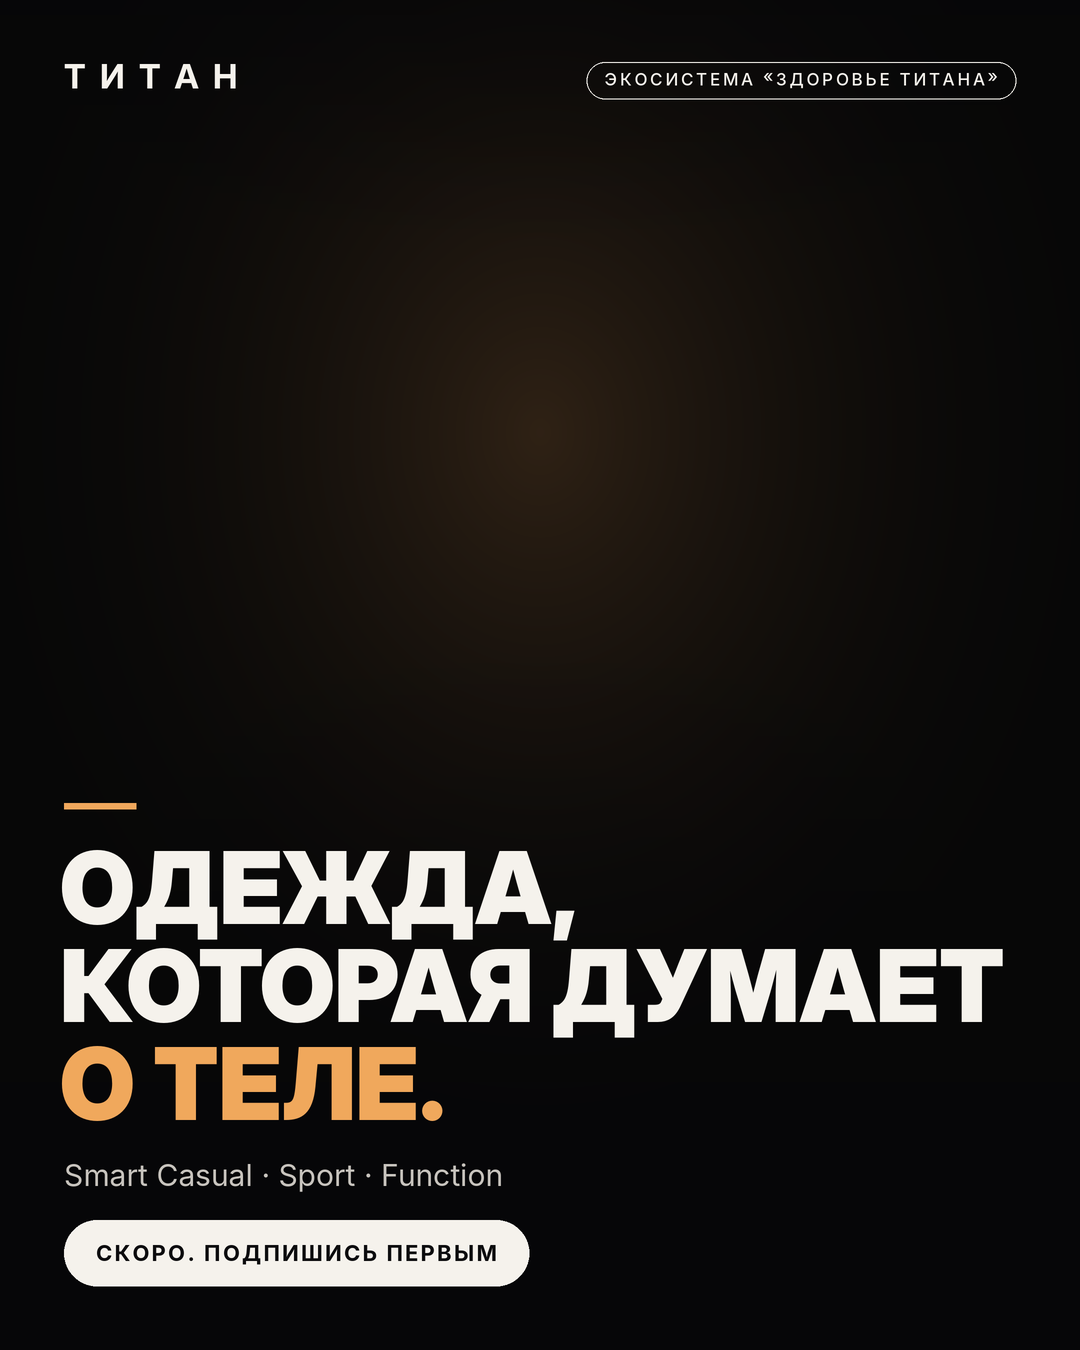
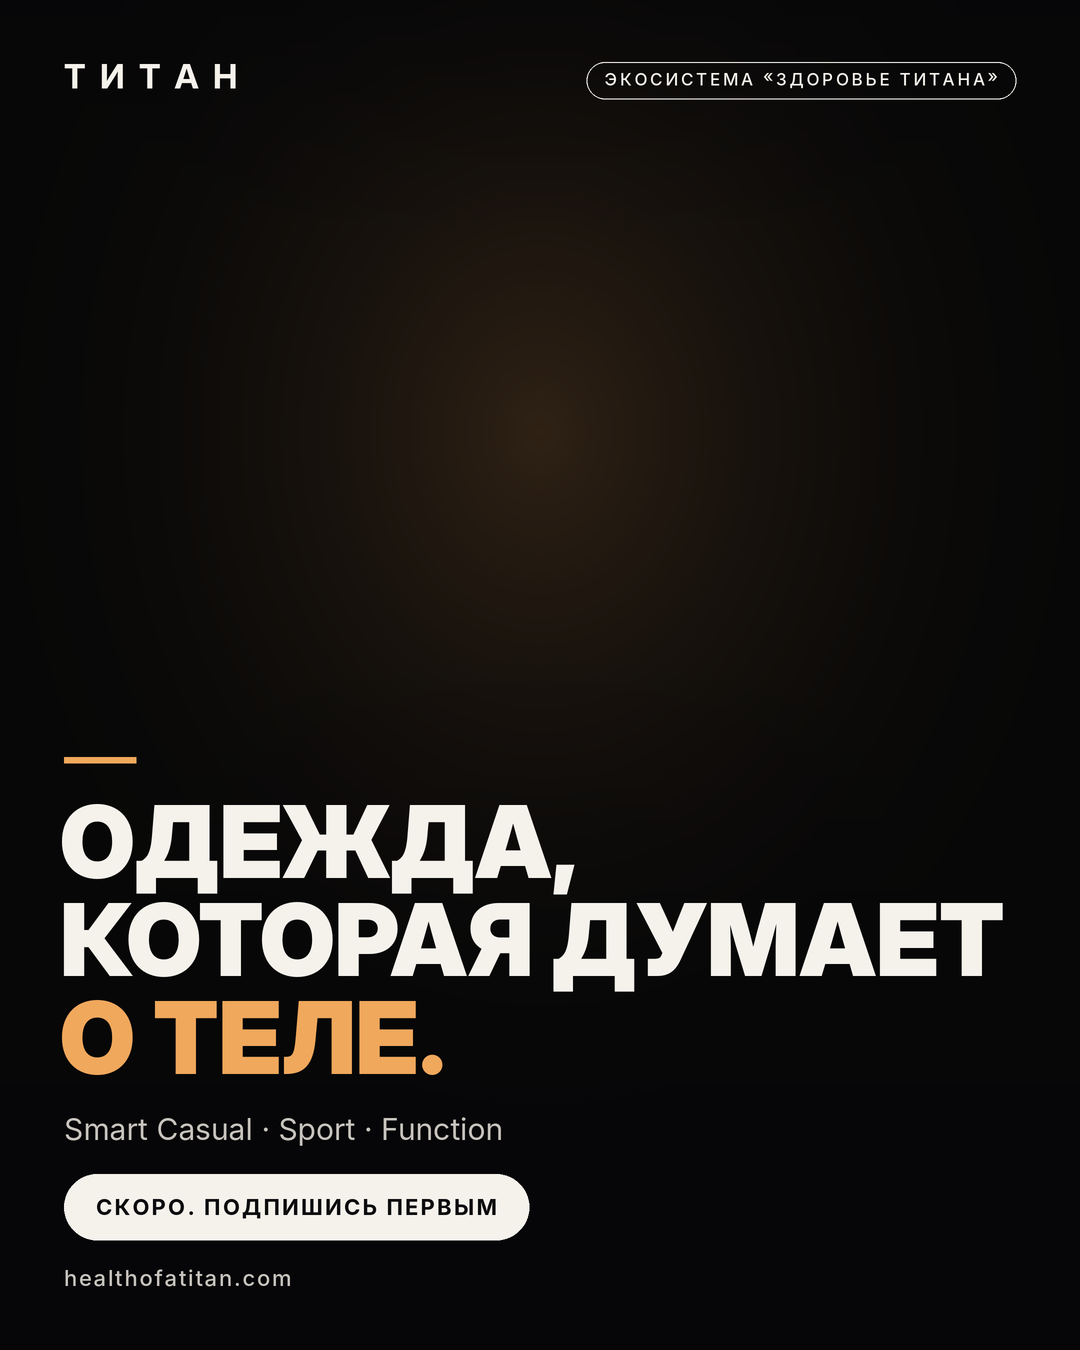
08-gtm/social: адрес сайта healthofatitan.com на финальном слайде, в сторис и видео
Claude-Session: https://claude.ai/code/session_014S4WhzKk5XQeDj9U6gLgi7

Changed region(s): [[0.0306, 0.56, 0.9472, 0.9644]]

diff --git a/08-gtm/social/campaign-teaser/story_video.py b/08-gtm/social/campaign-teaser/story_video.py
@@ -122,7 +122,7 @@ def final_frame(t, site):
         d.rounded_rectangle([x0, y0, x0 + bw, y0 + bh], radius=bh // 2, fill=WHITE + (int(255 * s3),))
         tracked(d, (W / 2, y0 + bh / 2), cta, fc, (12, 12, 14, int(255 * s3)), 3, anchor="mm")
         if site:
-            tracked(d, (W / 2, y0 + bh + 70), site.upper(), F("Inter-Medium.otf", 32), DIM + (int(255 * s3),), 3, anchor="ms")
+            tracked(d, (W / 2, y0 + bh + 70), site, F("Inter-Medium.otf", 32), DIM + (int(255 * s3),), 3, anchor="ms")
     return img.convert("RGB")
 
 

diff --git a/08-gtm/social/campaign-teaser/compose.py b/08-gtm/social/campaign-teaser/compose.py
@@ -174,7 +174,7 @@ def compose(photo, cfg, W, H, site, story=False):
     y = bottom
     if site and (cfg.get("cta") or story):
         f_site = F("Inter-Medium.otf", 22 * k * S)
-        tracked(d, (m, y), site.upper(), f_site, DIM, 0.08 * 22 * k * S, anchor="ls")
+        tracked(d, (m, y), site, f_site, DIM, 0.08 * 22 * k * S, anchor="ls")
         y -= 46 * S
     if cfg.get("cta") or story:
         cta = cfg.get("cta") or "СКОРО. ПОДПИШИСЬ ПЕРВЫМ"

diff --git a/08-gtm/social/campaign-teaser/creative-brief.md b/08-gtm/social/campaign-teaser/creative-brief.md
@@ -111,7 +111,7 @@ Gemini лучше понимает обычный язык и формат в т
 >
 > 🏙 Smart Casual · 🔥 Sport · 🏔 Function
 >
-> Скоро. Подпишись, чтобы быть первым. Ссылка в шапке профиля.
+> Скоро. Подпишись, чтобы быть первым. healthofatitan.com, ссылка в шапке профиля.
 >
 > #Титан #ЗдоровьеТитана #умнаяодежда #smartclothing #wearabletech
 
@@ -154,4 +154,6 @@ python3 story_video.py фото/ готово/titan-story.mp4 --site <адрес
 
 Видео для сторис: `final/titan-story.mp4`, 15 с, 6 сцен и финал.
 
-Открытые вопросы: адрес сайта ещё не напечатан; на кадре 6 нейросеть добавила надпись «HEALTH OF TIT AN» на сноуборде и логотип «HoT» на куртке, кадр рекомендуется перегенерировать без надписей.
+Сайт: healthofatitan.com, напечатан на слайде 7, в сторис и в финале видео; в шапку профиля и стикер «Ссылка» ставить его же.
+
+Открытый вопрос: на кадре 6 нейросеть добавила надпись «HEALTH OF TIT AN» на сноуборде и логотип «HoT» на куртке, кадр рекомендуется перегенерировать без надписей.
